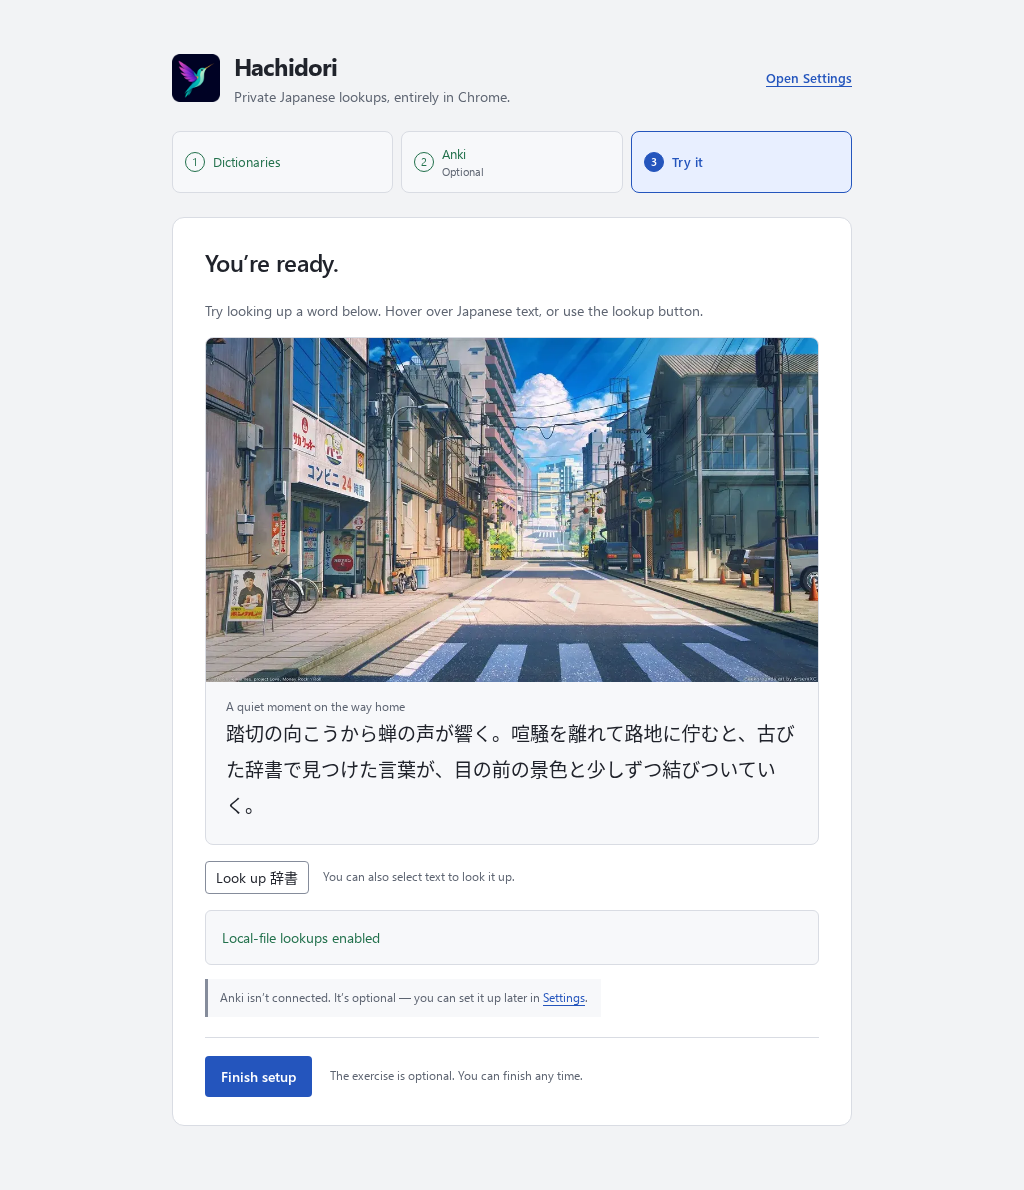
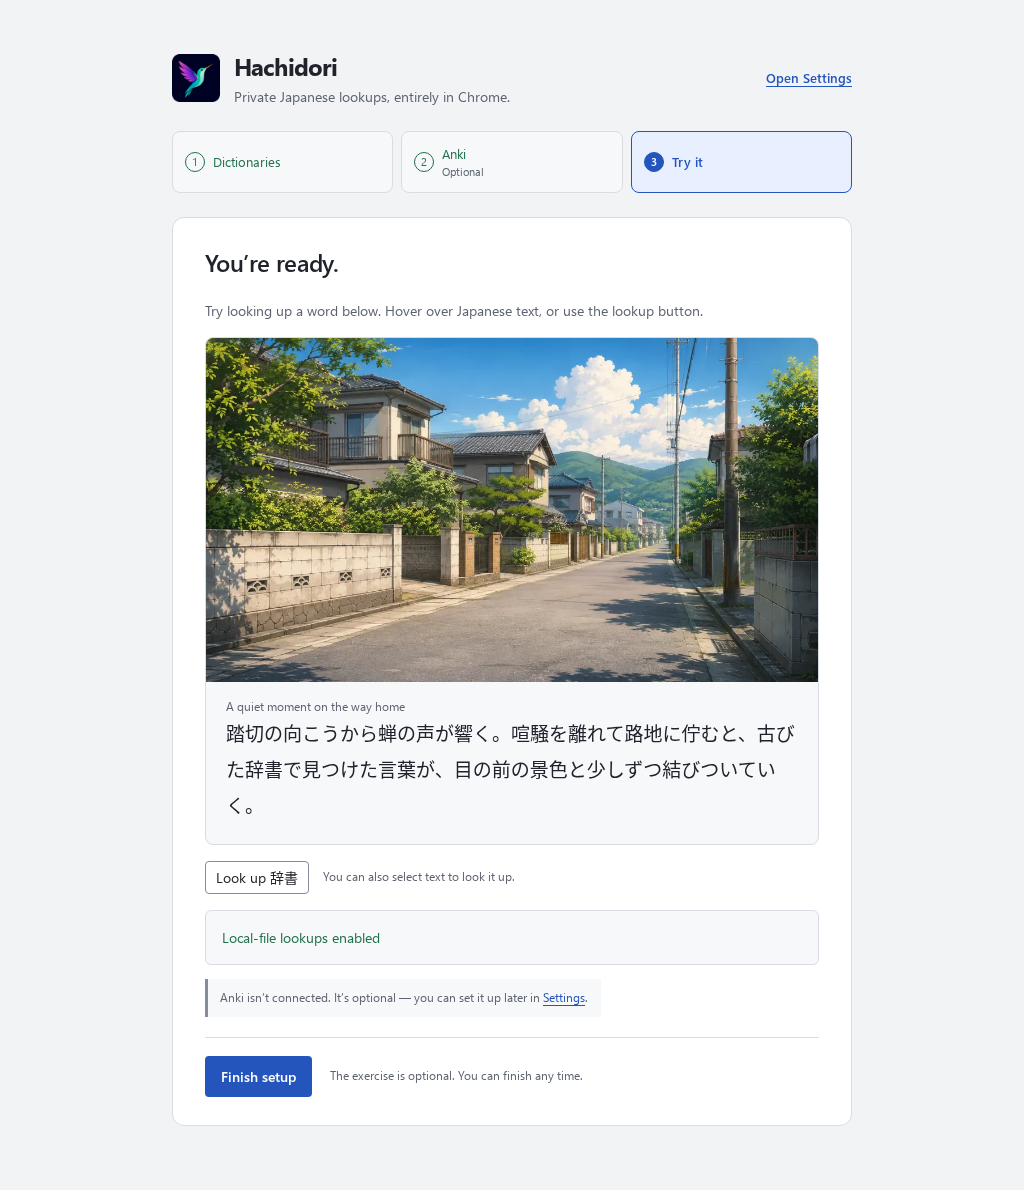
Refresh refinement captures against the current startup artwork

Changed region(s): [[0.1875, 0.2798, 0.8125, 0.5908]]

diff --git a/docs/startup-ui-review.md b/docs/startup-ui-review.md
@@ -2,9 +2,10 @@
 
 ## Readiness and continuation refinement
 
-The follow-up compares `1cbaef6` with `b422e57`. The final step now names the
-next action when the library is empty, its term dictionaries are disabled, or
-lookups are switched off. **Add dictionaries**, **Open Library** and
+This refinement builds on PR #75 through `c93eedc`; the refreshed screenshots
+use the page sources at `c9cbd46`, including its original practice artwork.
+The final step now names the next action when the library is empty, its term
+dictionaries are disabled, or lookups are switched off. **Add dictionaries**, **Open Library** and
 **Open Reading** lead directly to the relevant Settings section. **You’re
 ready.** appears only after the installed library answers the practice probe;
 reader-load and engine failures retain recovery. **Finish setup** remains
